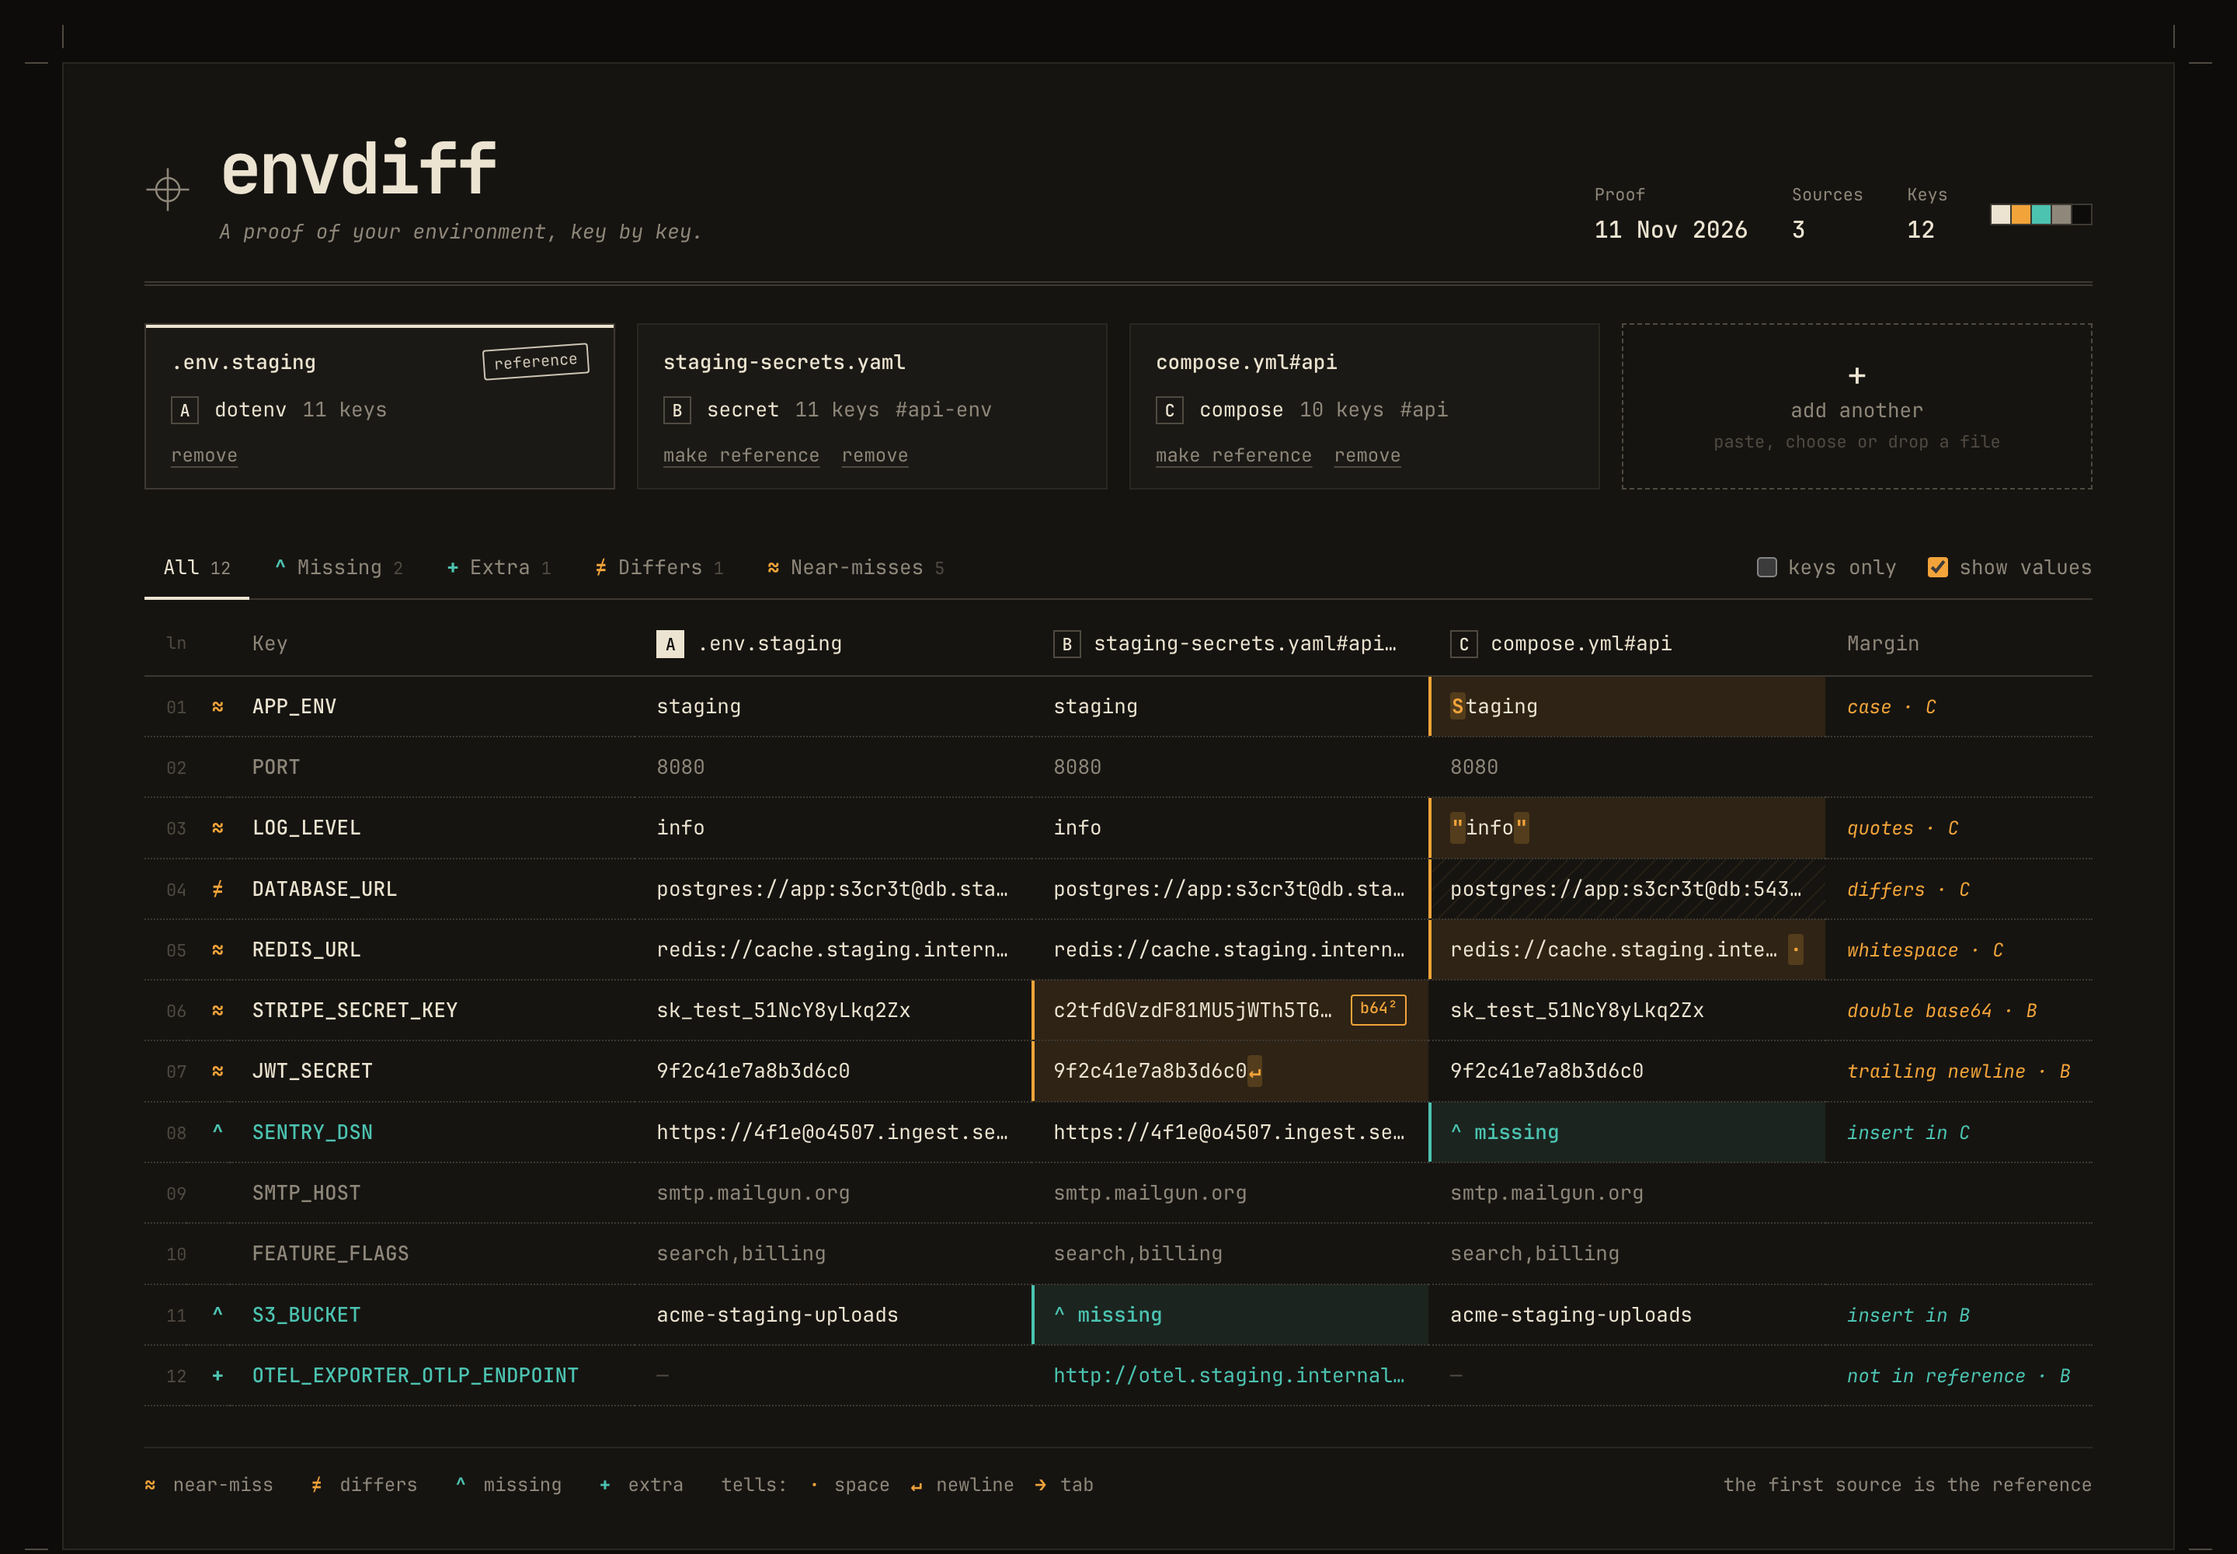
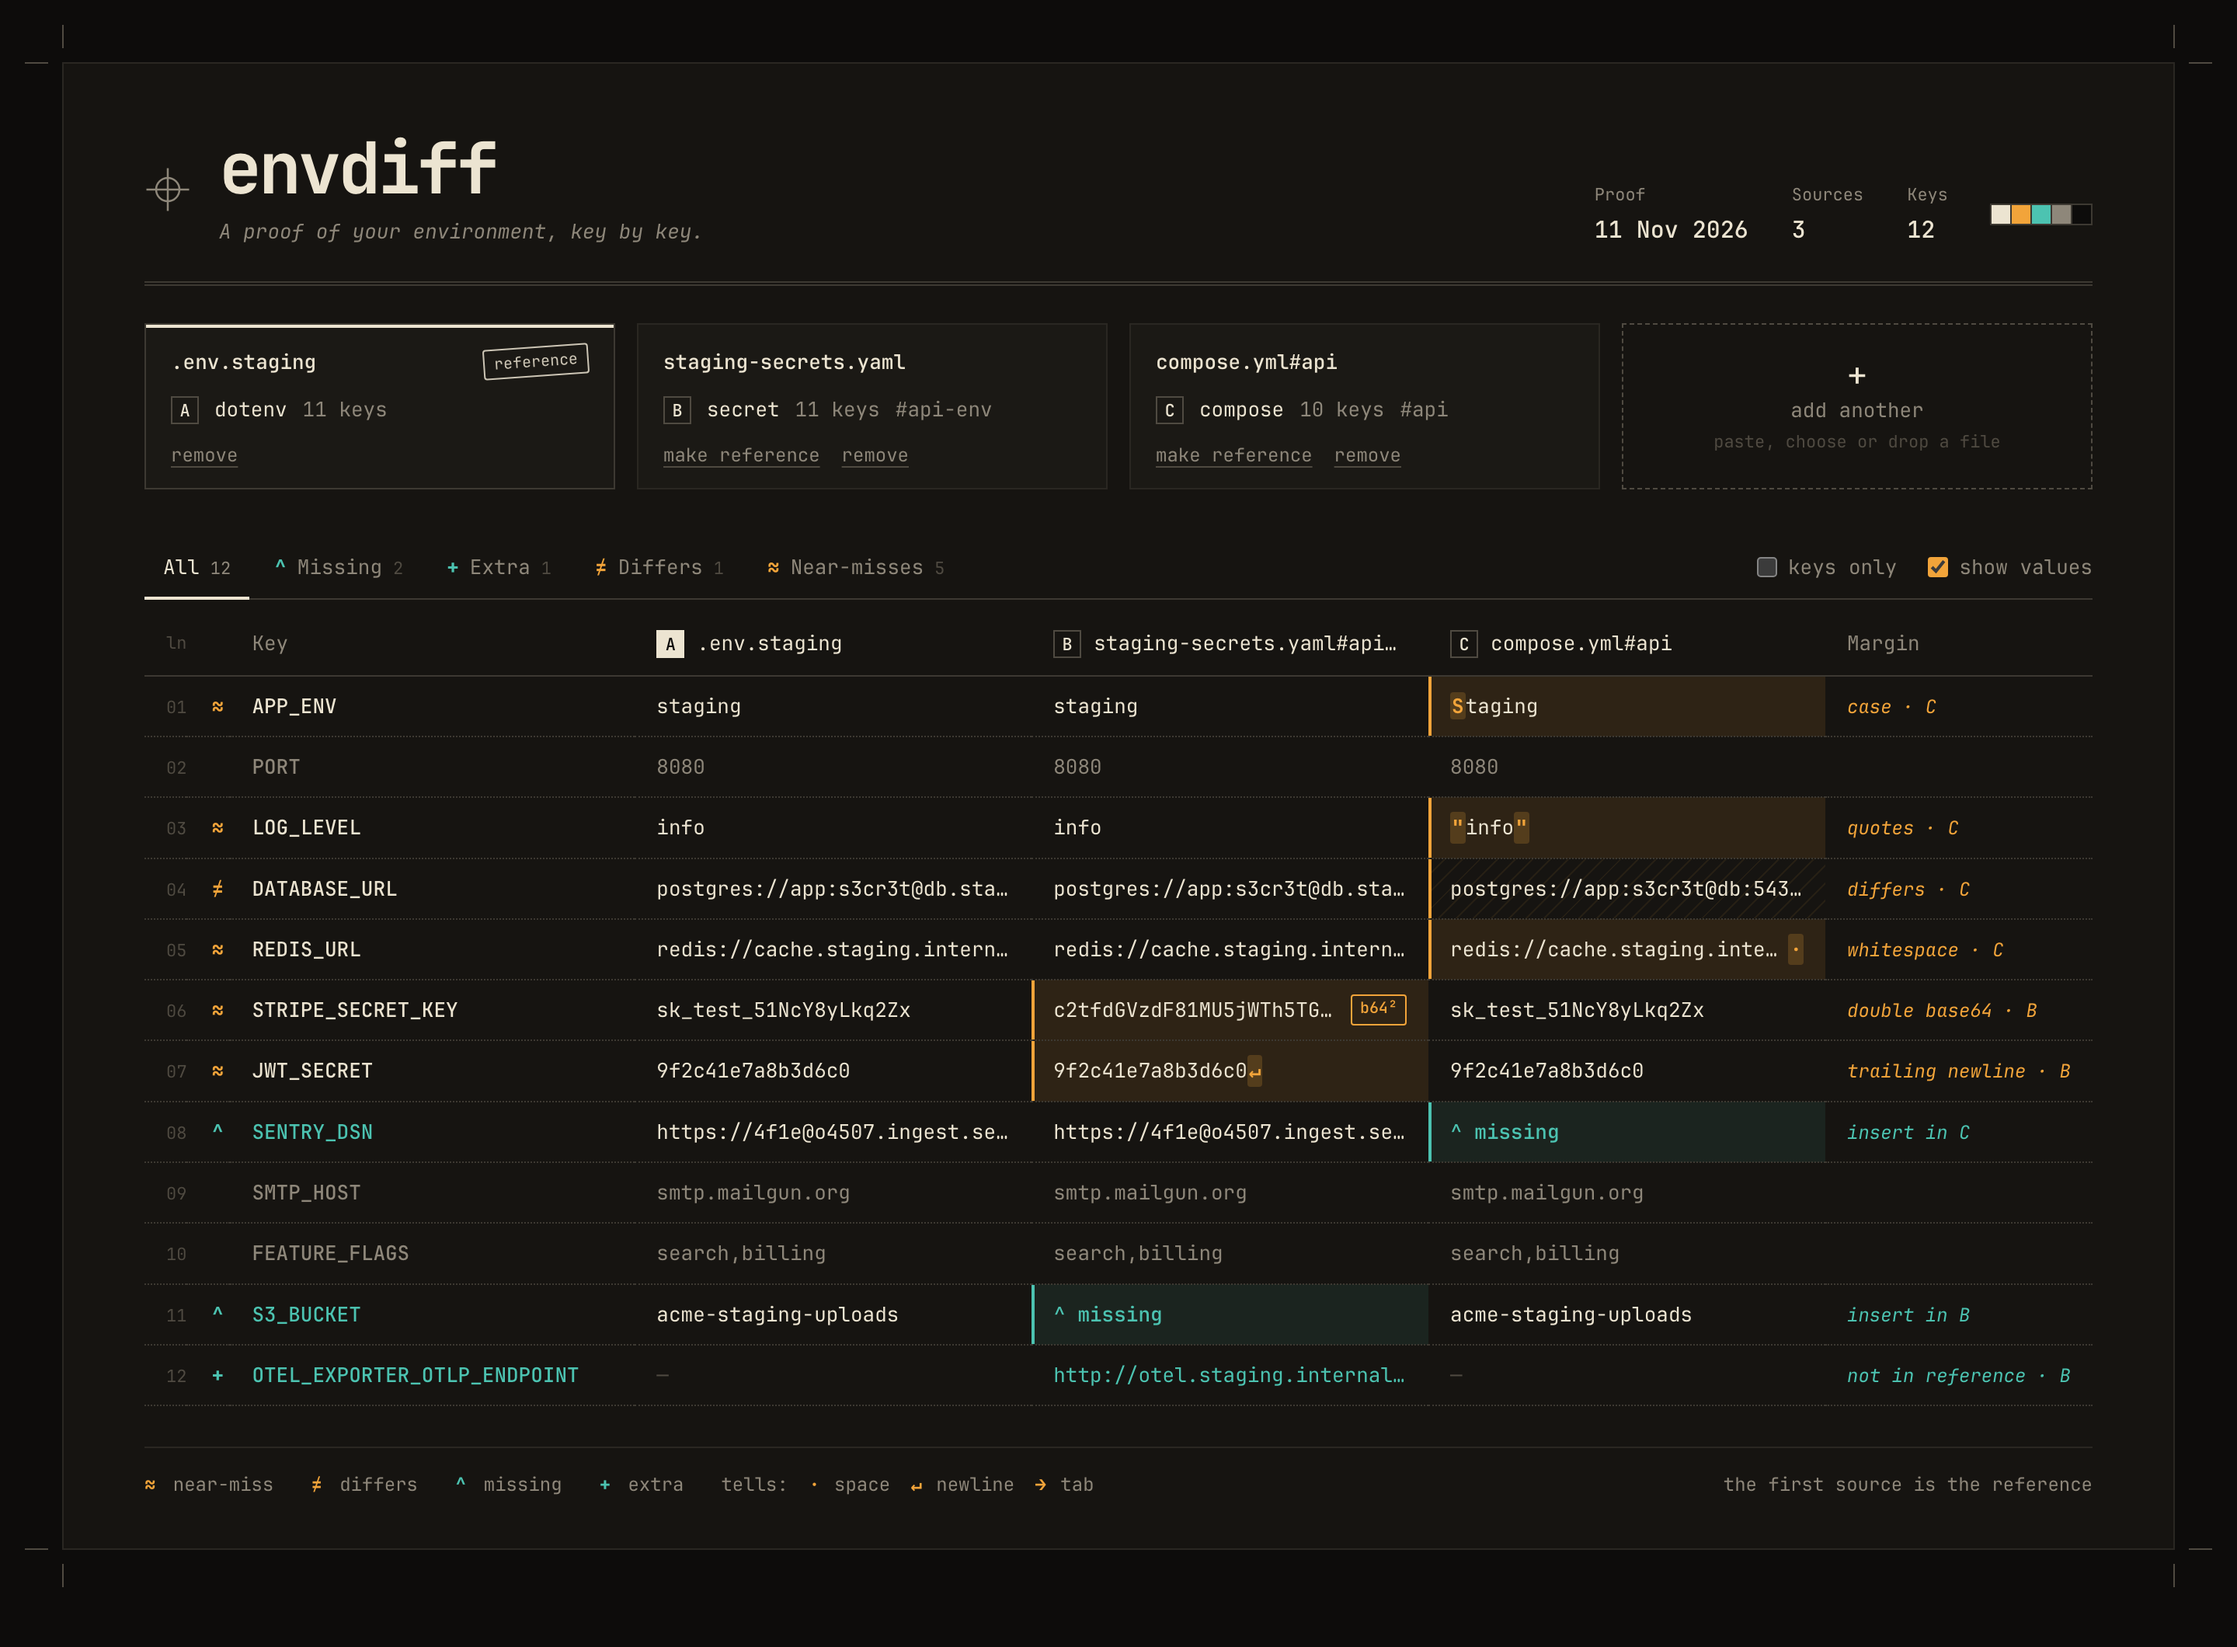
Add day 11: envdiff

diff --git a/tools.js b/tools.js
@@ -81,4 +81,12 @@ window.TOOLS = [
     stack: "Swift · macOS",
     image: "assets/thumbs/portkill.png",
   },
+  {
+    day: 11,
+    name: "envdiff",
+    repo: "preacherxp/envdiff",
+    blurb: "Compares environment variables across .env files, Kubernetes ConfigMaps and Secrets, and Docker Compose services, and names the near-misses: trailing newlines, stray spaces, quotes, case and double base64.",
+    stack: "Go · macOS, Linux, Windows",
+    image: "assets/thumbs/envdiff.png",
+  },
 ];

diff --git a/README.md b/README.md
@@ -20,6 +20,7 @@ A tool building challenge: one new open source tool every day of November 2026, 
 | 8 | [Mucha](https://github.com/preacherxp/mucha) | A local web UI for kubeseal that catches trailing newlines, double base64 and wrong-cluster mistakes before they are sealed |
 | 9 | [Thermal](https://github.com/preacherxp/thermal) | Benchmarks your CPU and GPU under monitored load and compares temperature runs before and after a fix |
 | 10 | [portkill](https://github.com/preacherxp/portkill) | A macOS menu bar app that shows every listening port, which project or Docker container owns it, and stops it with one click |
+| 11 | [envdiff](https://github.com/preacherxp/envdiff) | Compares .env files, Kubernetes ConfigMaps and Secrets, and Compose services, and names near-misses like trailing newlines, quotes and double base64 |
 
 ## Adding a day
 
